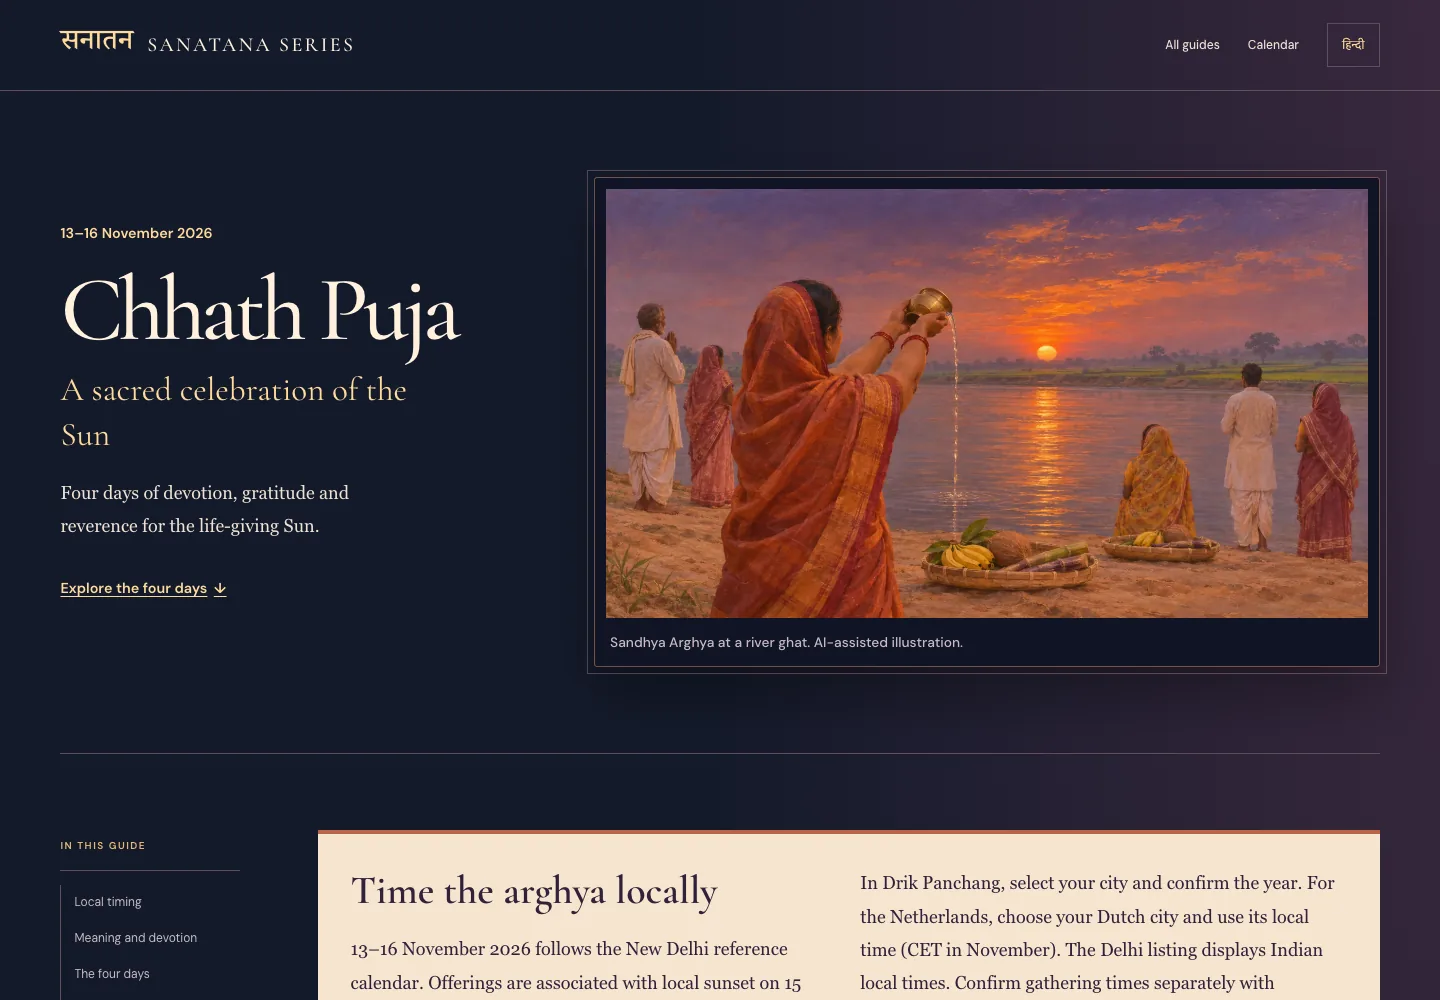
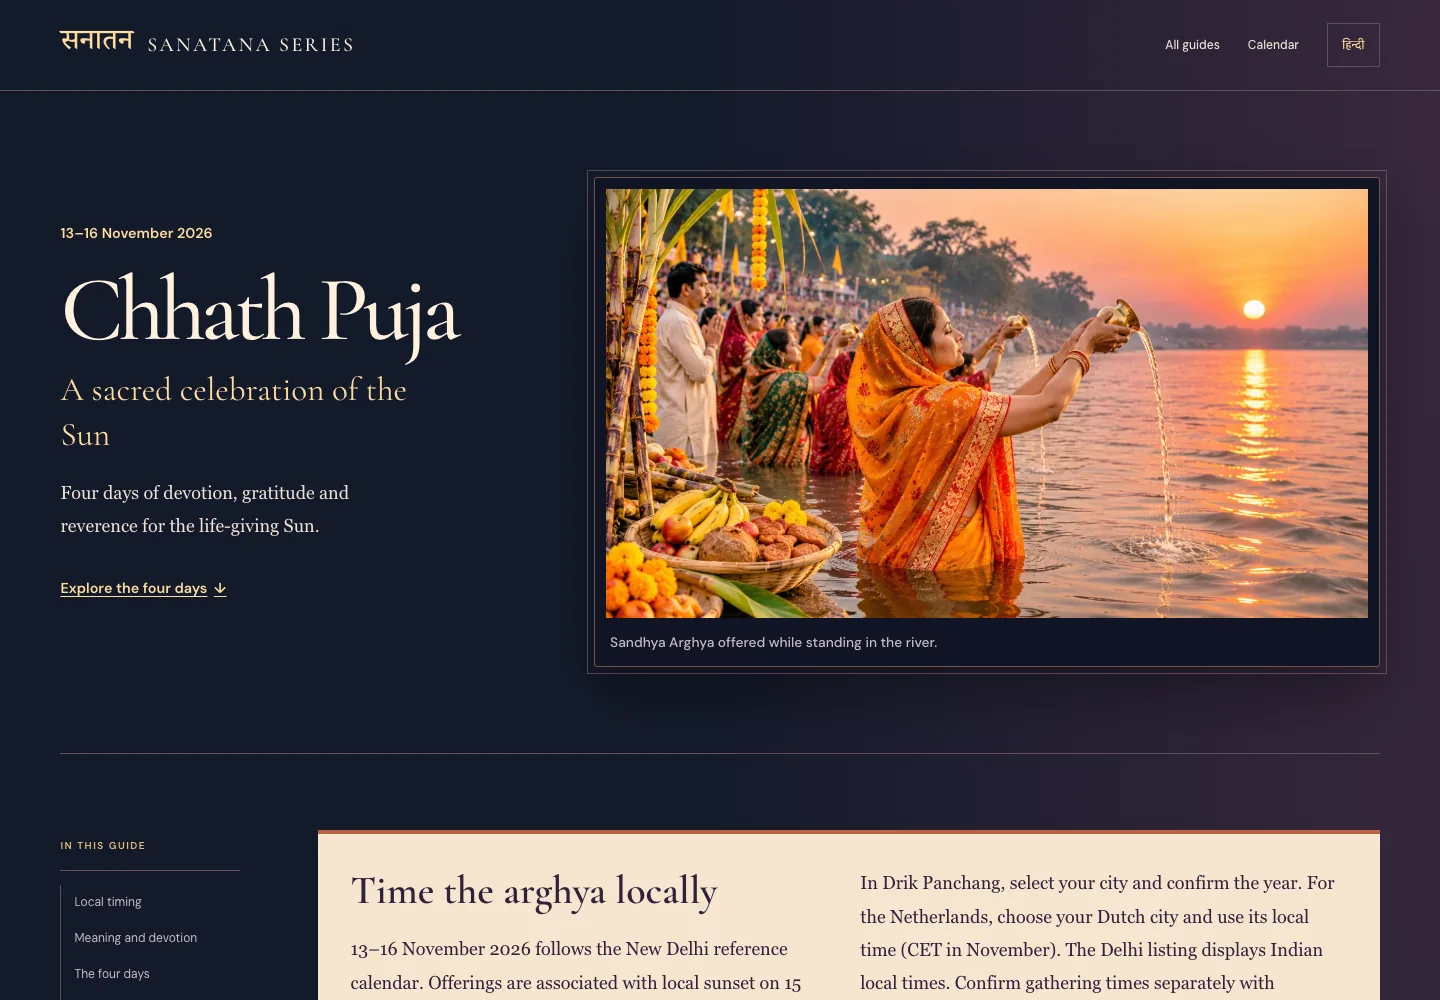
Use supplied riverside art for Chhath Puja

Changed region(s): [[0.4062, 0.186, 0.9688, 0.651]]

diff --git a/chhath-puja-hi.html b/chhath-puja-hi.html
@@ -17,7 +17,7 @@
   <meta property="og:image" content="https://dogvar.github.io/sanatana-series/images/chhath-puja/social.jpg">
   <meta property="og:image:width" content="1200">
   <meta property="og:image:height" content="630">
-  <meta property="og:image:alt" content="घाट पर अस्त होते सूर्य की ओर मुख किए परिवार और जल अर्पित करता एक श्रद्धालु">
+  <meta property="og:image:alt" content="नदी में कमर तक पानी में खड़ी एक व्रती पीतल के लोटे से डूबते सूर्य को अर्घ्य दे रही हैं">
   <meta name="twitter:card" content="summary_large_image">
   <link rel="stylesheet" href="festival-guide.css">
   <link rel="stylesheet" href="chhath-puja.css">
@@ -43,7 +43,7 @@
         <p class="chhath-lede">जीवनदायी सूर्य के प्रति भक्ति, कृतज्ञता और श्रद्धा के चार दिन।</p>
         <a class="chhath-jump" href="#days">चार दिनों का क्रम देखें <span aria-hidden="true">↓</span></a>
       </div>
-      <figure class="hero-art"><img src="images/chhath-puja/sunset-ghat.webp" alt="घाट पर अस्त होते सूर्य की ओर मुख किए परिवार और जल अर्पित करता एक श्रद्धालु" width="1440" height="810" fetchpriority="high"><figcaption>घाट पर संध्या अर्घ्य। एआई की मदद से बनाया गया चित्र।</figcaption></figure>
+      <figure class="hero-art"><img src="images/chhath-puja/sunset-ghat.webp" alt="नदी में कमर तक पानी में खड़ी एक व्रती पीतल के लोटे से डूबते सूर्य को अर्घ्य दे रही हैं" width="1440" height="810" fetchpriority="high"><figcaption>नदी में खड़े होकर डूबते सूर्य को संध्या अर्घ्य।</figcaption></figure>
     </div>
   </header>
   <div class="layout">
@@ -79,7 +79,7 @@
 </section>
 <section class="chapter chhath-days" id="days">
   <h2>छठ के चार दिन</h2>
-  <p>ये चित्र रसोई की तैयारी से घाट तक का क्रम दिखाते हैं। एआई की मदद से बने इन चित्रों में प्रचलित विधियों के उदाहरण हैं।</p>
+  <p>ये चित्र रसोई की तैयारी से घाट तक प्रचलित विधियों की झलक दिखाते हैं।</p>
   <ol class="chhath-sequence">
     <li class="chhath-day" id="nahay-khay">
       <figure class="chhath-plate"><img src="images/chhath-puja/nahay-khay.webp" alt="घर की रसोई में चावल, चने की दाल और लौकी" width="1120" height="747" loading="lazy" decoding="async"><figcaption>नहाय-खाय के भोजन का एक रूप।</figcaption></figure>
@@ -98,7 +98,7 @@
       </div>
     </li>
     <li class="chhath-day" id="sandhya-arghya">
-      <figure class="chhath-plate"><img src="images/chhath-puja/sandhya-arghya.webp" alt="संध्या में पीतल के छोटे पात्र से नदी में पड़ती जलधारा" width="1120" height="747" loading="lazy" decoding="async"><figcaption>दिन ढलते समय जल का अर्घ्य।</figcaption></figure>
+      <figure class="chhath-plate"><img src="images/chhath-puja/sandhya-arghya.webp" alt="दीयों से जगमगाते घाट पर परिवार प्रार्थना कर रहा है और एक महिला बाँस की टोकरी में फल और ठेकुआ सजा रही हैं" width="1120" height="747" loading="lazy" decoding="async"><figcaption>संध्या अर्घ्य से पहले परिवार प्रसाद लेकर घाट पर जुटते हैं।</figcaption></figure>
       <div class="chhath-day-copy">
         <p class="chhath-date"><time datetime="2026-11-15">रविवार, 15 नवंबर 2026</time> · षष्ठी</p>
         <h3>संध्या अर्घ्य</h3>
@@ -134,7 +134,7 @@
 </section>
 <section class="chapter chhath-prose" id="offerings">
   <h2>प्रसाद और अर्घ्य की सामग्री</h2>
-  <figure class="chhath-plate"><img src="images/chhath-puja/offerings.webp" alt="बाँस के सूप और दौरे के पास ठेकुआ, फल, नारियल, गन्ना और छोटा दीप" width="1120" height="747" loading="lazy" decoding="async"><figcaption>बाँस की बुनाई, फ़सल और अर्पण की सामग्री। एआई की मदद से बनाया गया चित्र।</figcaption></figure>
+  <figure class="chhath-plate"><img src="images/chhath-puja/offerings.webp" alt="बाँस के सूप और दौरे के पास ठेकुआ, फल, नारियल, गन्ना और छोटा दीप" width="1120" height="747" loading="lazy" decoding="async"><figcaption>प्रसाद की सामग्री और अर्पण के पात्र अलग-अलग रखे हैं। <a href="#sandhya-arghya">संध्या अर्घ्य के दृश्य</a> में घाट पर टोकरी में सजा प्रसाद दिखाया गया है। एआई की मदद से बनाया गया चित्र।</figcaption></figure>
   <dl class="offering-list">
     <div><dt>सूप और दौरा</dt><dd>बाँस का उथला <em>सूप</em> मूलतः अनाज फटकने का पात्र है, जिसमें प्रसाद सजाया जा सकता है। गहरा <em>दौरा</em> प्रायः सामग्री घाट तक ले जाने के काम आता है।</dd></div>
     <div><dt>ठेकुआ</dt><dd>गेहूँ के आटे और गुड़ या चीनी की एक तली हुई मिठाई। घरों की विधियाँ अलग होती हैं। कोई ठेकुए पर साँचे से छाप बनाता है, कोई हाथ से आकार देता है।</dd></div>

diff --git a/chhath-puja.html b/chhath-puja.html
@@ -17,7 +17,7 @@
   <meta property="og:image" content="https://dogvar.github.io/sanatana-series/images/chhath-puja/social.jpg">
   <meta property="og:image:width" content="1200">
   <meta property="og:image:height" content="630">
-  <meta property="og:image:alt" content="Families facing the setting Sun as a devotee pours water at a river ghat">
+  <meta property="og:image:alt" content="A devotee stands waist-deep in the river and pours water from a brass vessel as the sun sets">
   <meta name="twitter:card" content="summary_large_image">
   <link rel="stylesheet" href="festival-guide.css">
   <link rel="stylesheet" href="chhath-puja.css">
@@ -43,7 +43,7 @@
         <p class="chhath-lede">Four days of devotion, gratitude and reverence for the life-giving Sun.</p>
         <a class="chhath-jump" href="#days">Explore the four days <span aria-hidden="true">↓</span></a>
       </div>
-      <figure class="hero-art"><img src="images/chhath-puja/sunset-ghat.webp" alt="Families facing the setting Sun as a devotee pours water at a river ghat" width="1440" height="810" fetchpriority="high"><figcaption>Sandhya Arghya at a river ghat. AI-assisted illustration.</figcaption></figure>
+      <figure class="hero-art"><img src="images/chhath-puja/sunset-ghat.webp" alt="A devotee stands waist-deep in the river and pours water from a brass vessel as the sun sets" width="1440" height="810" fetchpriority="high"><figcaption>Sandhya Arghya offered while standing in the river.</figcaption></figure>
     </div>
   </header>
   <div class="layout">
@@ -79,7 +79,7 @@
 </section>
 <section class="chapter chhath-days" id="days">
   <h2>The four days of Chhath</h2>
-  <p>These illustrations follow the observance from the kitchen to the ghat. They were created with AI assistance and show examples of customary practice.</p>
+  <p>These images follow the observance from the kitchen to the ghat and show examples of customary practice.</p>
   <ol class="chhath-sequence">
     <li class="chhath-day" id="nahay-khay">
       <figure class="chhath-plate"><img src="images/chhath-puja/nahay-khay.webp" alt="Rice, chana dal and bottle gourd in a home kitchen" width="1120" height="747" loading="lazy" decoding="async"><figcaption>One customary Nahay Khay meal.</figcaption></figure>
@@ -98,7 +98,7 @@
       </div>
     </li>
     <li class="chhath-day" id="sandhya-arghya">
-      <figure class="chhath-plate"><img src="images/chhath-puja/sandhya-arghya.webp" alt="A small brass vessel pours a thin stream into the river at dusk" width="1120" height="747" loading="lazy" decoding="async"><figcaption>Water offered as the day closes.</figcaption></figure>
+      <figure class="chhath-plate"><img src="images/chhath-puja/sandhya-arghya.webp" alt="A family prays as a woman arranges fruit and thekua in a bamboo basket beside a lamp-lit river" width="1120" height="747" loading="lazy" decoding="async"><figcaption>Families gather at the ghat with prasad before the evening offering.</figcaption></figure>
       <div class="chhath-day-copy">
         <p class="chhath-date"><time datetime="2026-11-15">Sunday, 15 November 2026</time> · Shashthi</p>
         <h3>Sandhya Arghya</h3>
@@ -134,7 +134,7 @@
 </section>
 <section class="chapter chhath-prose" id="offerings">
   <h2>What goes into the offerings?</h2>
-  <figure class="chhath-plate"><img src="images/chhath-puja/offerings.webp" alt="Woven bamboo trays and baskets with thekua, fruit, coconut, sugarcane and a small oil lamp" width="1120" height="747" loading="lazy" decoding="async"><figcaption>The bamboo weave, the harvest and the tools of offering. AI-assisted illustration.</figcaption></figure>
+  <figure class="chhath-plate"><img src="images/chhath-puja/offerings.webp" alt="Woven bamboo trays and baskets with thekua, fruit, coconut, sugarcane and a small oil lamp" width="1120" height="747" loading="lazy" decoding="async"><figcaption>Common offerings and utensils laid out separately. The <a href="#sandhya-arghya">Sandhya Arghya scene</a> shows prasad arranged in a basket at the ghat. AI-assisted illustration.</figcaption></figure>
   <dl class="offering-list">
     <div><dt>Soop and daura</dt><dd>A <em>soop</em> is a shallow bamboo winnowing tray that can hold the offerings; a <em>daura</em> is a deeper basket often used to carry them to the water.</dd></div>
     <div><dt>Thekua</dt><dd>A moulded, fried sweet commonly made from wheat flour and jaggery or sugar. Families use different doughs and stamp or shape the pieces by hand.</dd></div>

diff --git a/docs/chhath-puja/research.md b/docs/chhath-puja/research.md
@@ -14,6 +14,6 @@ Reviewed 16 November 2026. These notes distinguish sourced practices, devotional
 
 ## Illustration treatment
 
-Eight original AI-assisted gouache-style illustrations were generated for the guide and visually reviewed. Captions and alt text are localized. The hero and the third-day plate use separate views of sunset, one showing the people and the other the water offering in detail. Day one and day two show different prepared foods. Day four and the closing picture shift to a cooler, softer dawn. The offerings plate shows recognizable objects separately, and the additional close portrait makes the orange line from the hair parting to the nose visible. The illustrations are interpretive and identify no real participant, specific historical event or mandatory ritual arrangement. The social JPEG is a crop of the hero, with no embedded type.
+The guide uses six AI-assisted gouache-style illustrations and two owner-supplied riverside scenes. Captions and alt text are localized. The hero shows the vrati standing in the river for Sandhya Arghya, a practice described by [Bihar Bhawan](https://www.biharbhawan.gov.in/docs/eMagazine//Newsletter_Nov_2023.pdf) and documented in [Bihar Tourism’s festival brochure](https://tourism.bihar.gov.in/content/dam/bihar-tourism/e_brochures/magnificient_bihar/magnificent_bihar_english_2020.pdf). The third-day plate shows a family arranging prasad on the ghat before the offering. Day one and day two show different prepared foods. Day four and the closing picture shift to a cooler, softer dawn. The offerings plate shows recognizable objects separately, and the additional close portrait makes the orange line from the hair parting to the nose visible. The illustrations are interpretive and identify no real participant, specific historical event or mandatory ritual arrangement. The social JPEG is a crop of the hero, with no embedded type.
 
 [Artwork provenance and generation briefs](artwork.json)
